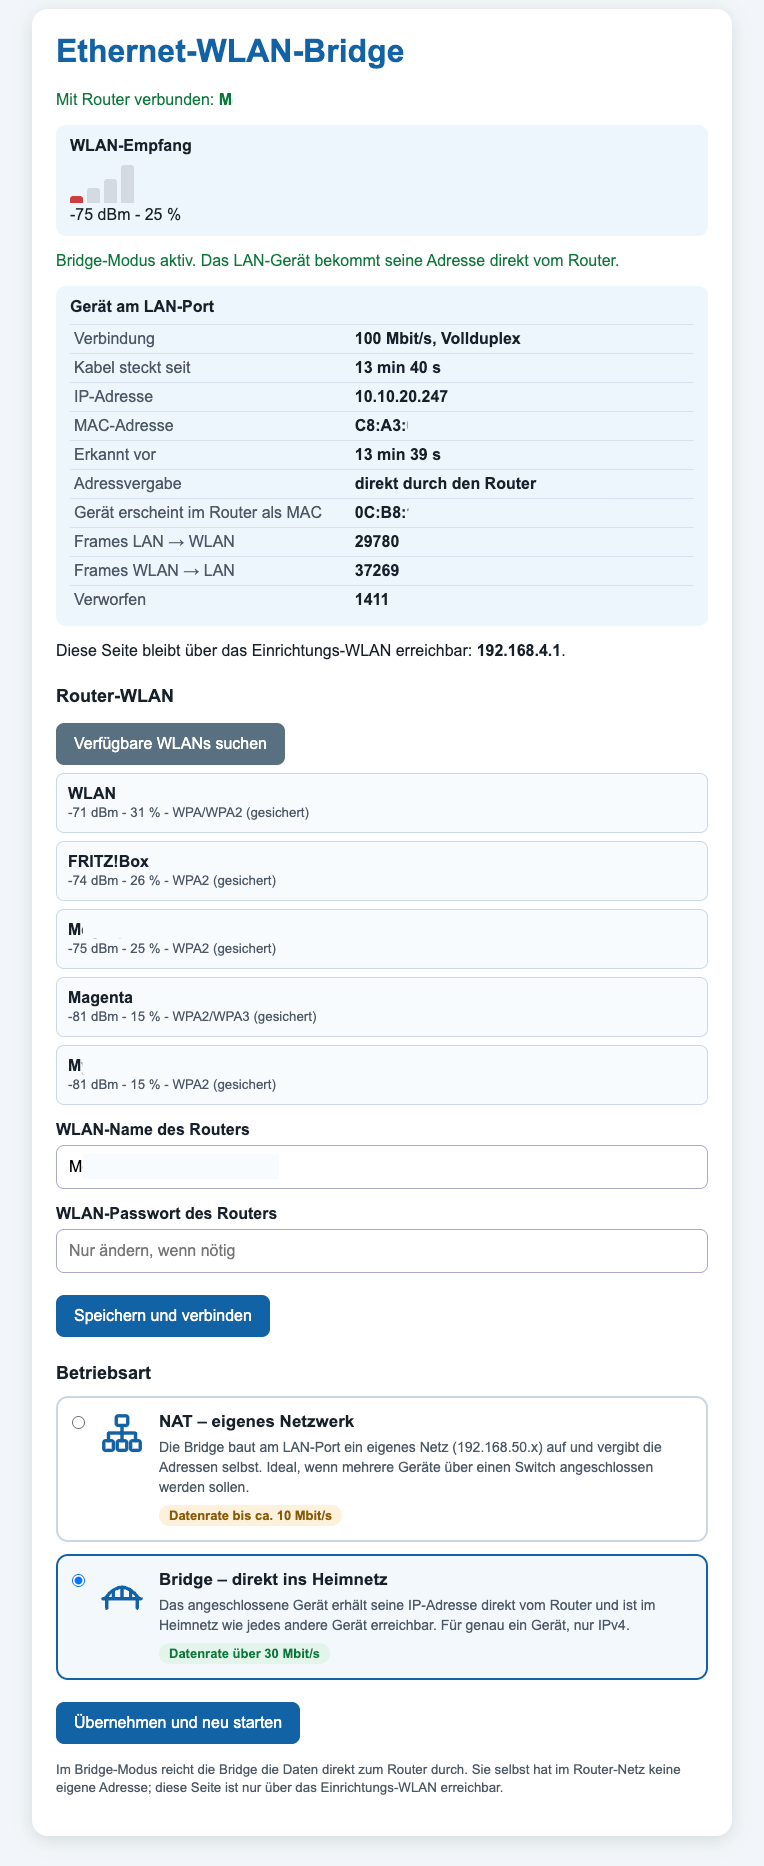
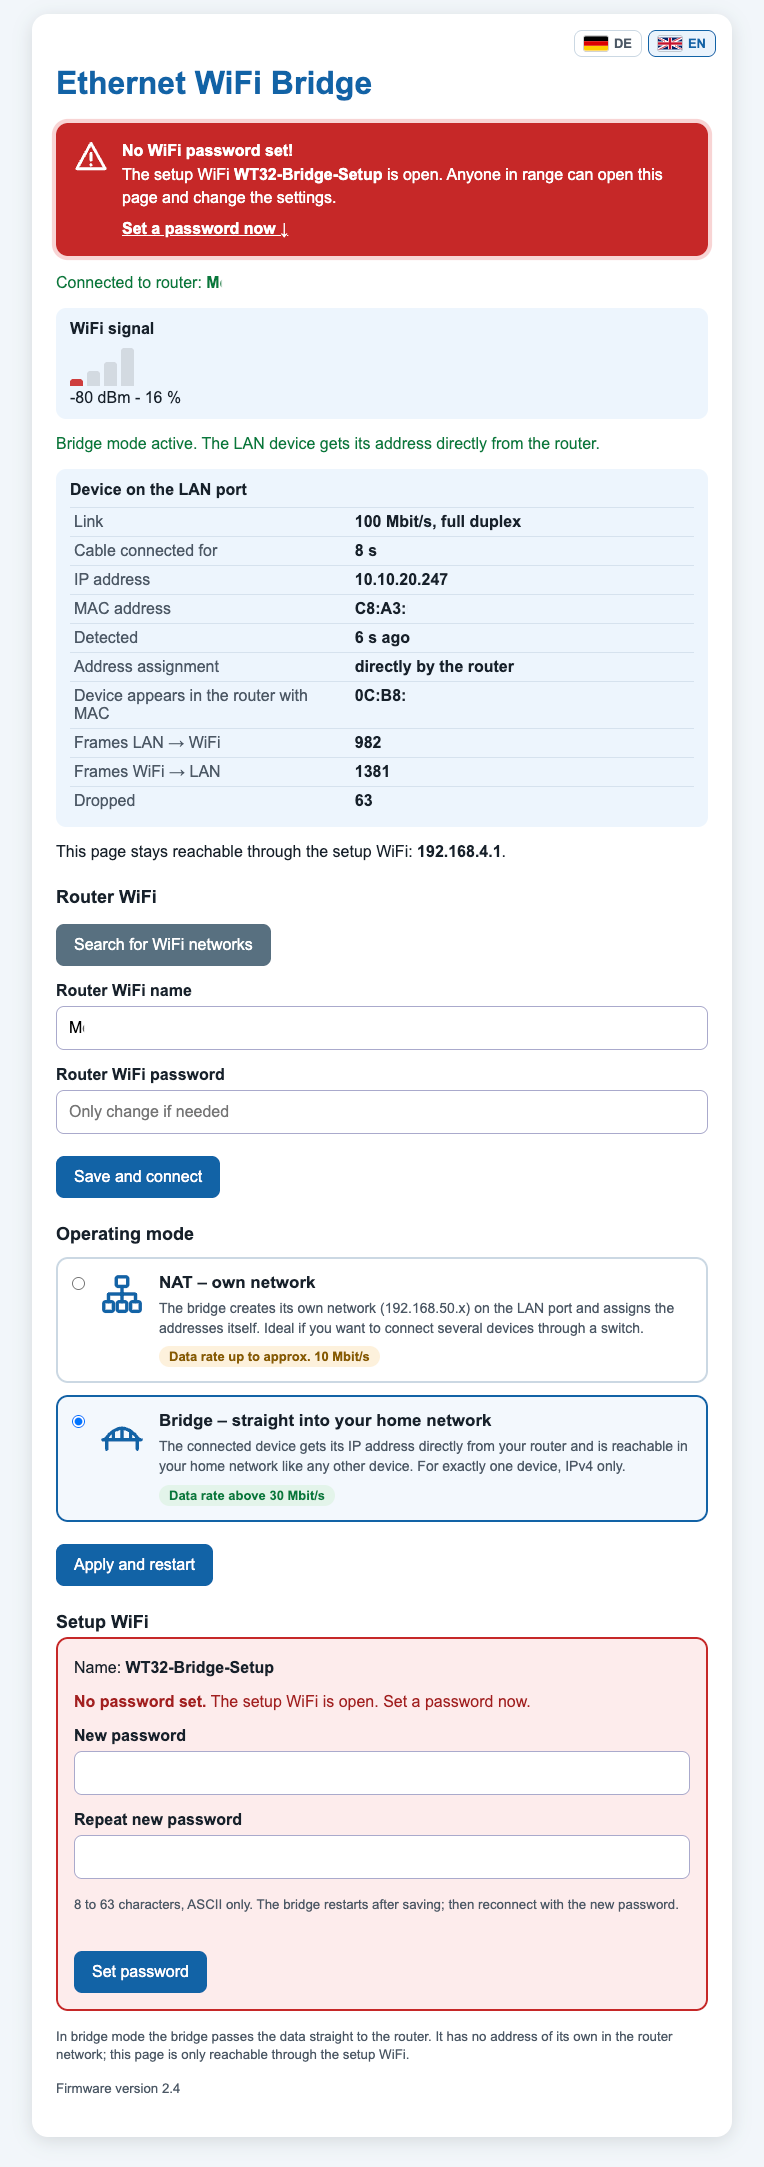
Neuer Screenshot des Webinterface (v2.4, Englisch)

diff --git a/README.md b/README.md
@@ -26,11 +26,12 @@ connected to the WT32-ETH01 by cable, and the WT32-ETH01 connects to your router
 ## Web interface
 
 <p align="center">
-  <img src="docs/webinterface.png" alt="Web interface in bridge mode: WiFi signal, LAN device info, WiFi scan and operating mode selection" width="420">
+  <img src="docs/webinterface.png" alt="Web interface in bridge mode: language switch, open setup WiFi warning, WiFi signal, LAN device info, operating mode and setup WiFi password" width="420">
 </p>
 
-The web interface in bridge mode: WiFi signal strength, details of the device on the LAN port
-(IP address from the router, link speed, packet counters), WiFi scan and operating mode selection.
+The web interface (English, version 2.4) in bridge mode: language switch, warning while the setup
+WiFi has no password, WiFi signal strength, details of the device on the LAN port (IP address from
+the router, link speed, packet counters), router WiFi, operating mode and setup WiFi password.
 The interface is available in English and German and can be switched with the flag buttons at the
 top right.
 

diff --git a/README.de.md b/README.de.md
@@ -29,8 +29,10 @@ wird per Kabel an den WT32-ETH01 angeschlossen, der WT32-ETH01 verbindet sich pe
   <img src="docs/webinterface.png" alt="Webinterface der Bridge im Bridge-Modus: WLAN-Empfang, Infos zum Gerät am LAN-Port, WLAN-Suche und Auswahl der Betriebsart" width="420">
 </p>
 
-Das Webinterface im Bridge-Modus: WLAN-Empfang, Daten des Geräts am LAN-Port (IP-Adresse vom
-Router, Link-Geschwindigkeit, Paketzähler), WLAN-Suche und Auswahl der Betriebsart.
+Das Webinterface (hier auf Englisch, Version 2.4) im Bridge-Modus: Sprachumschalter, Warnung
+solange das Einrichtungs-WLAN kein Passwort hat, WLAN-Empfang, Daten des Geräts am LAN-Port
+(IP-Adresse vom Router, Link-Geschwindigkeit, Paketzähler), Router-WLAN, Betriebsart und Passwort
+des Einrichtungs-WLANs.
 
 ## Funktionen
 
